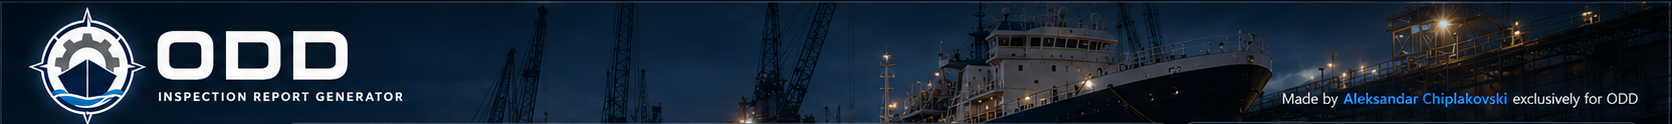
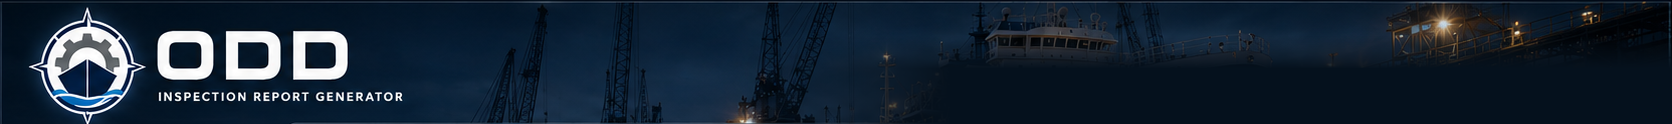
Fix unclickable title bar buttons; shrink the credit text
Title bar buttons: Qt.FramelessWindowHint's native maximize state
reports window geometry slightly larger than the visible screen on
Windows (compensating for the OS's hidden resize border), which
shifts hit-testing for anything near the top edge - exactly where
the custom minimize/maximize/close buttons live, making them
unclickable once maximized. Replaced native showMaximized()/
isMaximized() with a manual pseudo-maximize (resize to
screen().availableGeometry(), track prior geometry to restore),
avoiding the native maximize state entirely. app/main.py now starts
via show() + maximize_to_screen() instead of showMaximized().

Credit text: it was baked as pixels into header_banner.png as part of
an earlier fix for a cropped logo, which meant its size could no
longer be adjusted. Erased the baked-in text with a corner vignette
(blended into the existing photo rather than a visible patch) and
restored it as a real QLabel stacked on top of the banner via
QGridLayout, now sized down to 9px so it's as unobtrusive as
possible while staying legible.

diff --git a/app/ui/main_window.py b/app/ui/main_window.py
@@ -4,7 +4,7 @@ from __future__ import annotations
 from datetime import date, datetime
 from pathlib import Path
 
-from PySide6.QtCore import QDate, QPoint, QSize, Qt
+from PySide6.QtCore import QDate, QPoint, QRect, QSize, Qt
 from PySide6.QtGui import QAction, QColor, QIcon
 from PySide6.QtWidgets import (
     QAbstractItemView,
@@ -12,6 +12,7 @@ from PySide6.QtWidgets import (
     QDialog,
     QFileDialog,
     QFrame,
+    QGridLayout,
     QHBoxLayout,
     QHeaderView,
     QInputDialog,
@@ -81,6 +82,12 @@ class MainWindow(QMainWindow):
         self._current_report_groups: list[list[WorkItem]] = []
         self._table_updating = False
         self._page_count = 0
+        # A custom "maximize" that resizes to the screen's available geometry, rather than
+        # relying on Qt.FramelessWindowHint's native maximize: on Windows the latter reports a
+        # window slightly larger than the visible screen to compensate for the OS resize
+        # border, which makes clicks near the top edge (i.e. our own title bar buttons) land
+        # on the wrong coordinates and get swallowed instead of reaching the buttons.
+        self._restore_geometry: QRect | None = None
 
         self._build_ui()
         self._apply_styles()
@@ -115,11 +122,20 @@ class MainWindow(QMainWindow):
         header.setObjectName("brandHeader")
         header.setMinimumHeight(108)
         header.setMaximumHeight(120)
-        layout = QVBoxLayout(header)
+        layout = QGridLayout(header)
         layout.setContentsMargins(0, 0, 0, 0)
-        # The banner asset already bakes in the full ODD logo, subtitle, shipyard art, and the
-        # "Made by ..." credit, so it renders as one image instead of separately laid-out labels.
-        layout.addWidget(BannerWidget(asset("header_banner.png")))
+        # The banner asset bakes in the full ODD logo, subtitle, and shipyard art (with the
+        # bottom-right corner kept clear); the credit text is a real label stacked on top of
+        # it so its size stays adjustable.
+        banner = BannerWidget(asset("header_banner.png"))
+        layout.addWidget(banner, 0, 0)
+        credit = QLabel(
+            "Made by <span style='color:#47a8ff; font-weight:700;'>Aleksandar Chiplakovski</span> "
+            "exclusively for ODD"
+        )
+        credit.setObjectName("creditLabel")
+        credit.setTextFormat(Qt.RichText)
+        layout.addWidget(credit, 0, 0, Qt.AlignRight | Qt.AlignBottom)
         return header
 
     def _build_sidebar(self) -> QFrame:
@@ -397,6 +413,22 @@ class MainWindow(QMainWindow):
 
     def _apply_styles(self) -> None:
         self.setStyleSheet(build_stylesheet())
+
+    def is_pseudo_maximized(self) -> bool:
+        return self._restore_geometry is not None
+
+    def maximize_to_screen(self) -> None:
+        if self._restore_geometry is not None:
+            return
+        self._restore_geometry = self.geometry()
+        self.setGeometry(self.screen().availableGeometry())
+
+    def toggle_maximize_state(self) -> None:
+        if self._restore_geometry is not None:
+            self.setGeometry(self._restore_geometry)
+            self._restore_geometry = None
+        else:
+            self.maximize_to_screen()
 
     def set_active_nav(self, index: int) -> None:
         for i, btn in enumerate(self.nav_buttons):

diff --git a/app/ui/widgets.py b/app/ui/widgets.py
@@ -85,18 +85,16 @@ class TitleBar(QFrame):
         layout.addWidget(title)
         layout.addStretch(1)
 
-        for label, handler in (("—", self.window_ref.showMinimized), ("□", self.toggle_maximize), ("×", self.window_ref.close)):
+        for label, handler in (
+            ("—", self.window_ref.showMinimized),
+            ("□", self.window_ref.toggle_maximize_state),
+            ("×", self.window_ref.close),
+        ):
             btn = QPushButton(label)
             btn.setObjectName("windowControl")
             btn.setFixedSize(42, 30)
             btn.clicked.connect(handler)
             layout.addWidget(btn)
-
-    def toggle_maximize(self) -> None:
-        if self.window_ref.isMaximized():
-            self.window_ref.showNormal()
-        else:
-            self.window_ref.showMaximized()
 
     def mousePressEvent(self, event) -> None:  # type: ignore[override]
         if event.button() == Qt.LeftButton:
@@ -104,7 +102,7 @@ class TitleBar(QFrame):
             event.accept()
 
     def mouseMoveEvent(self, event) -> None:  # type: ignore[override]
-        if self.drag_pos is not None and event.buttons() & Qt.LeftButton and not self.window_ref.isMaximized():
+        if self.drag_pos is not None and event.buttons() & Qt.LeftButton and not self.window_ref.is_pseudo_maximized():
             self.window_ref.move(event.globalPosition().toPoint() - self.drag_pos)
             event.accept()
 
@@ -114,7 +112,7 @@ class TitleBar(QFrame):
 
     def mouseDoubleClickEvent(self, event) -> None:  # type: ignore[override]
         if event.button() == Qt.LeftButton:
-            self.toggle_maximize()
+            self.window_ref.toggle_maximize_state()
 
 
 class UploadDropFrame(QFrame):

diff --git a/app/ui/theme.py b/app/ui/theme.py
@@ -25,6 +25,7 @@ def build_stylesheet() -> str:
         #windowControl {{ background: transparent; border: none; font-size: 19px; padding: 0; }}
         #windowControl:hover {{ background: rgba(37, 87, 129, 210); }}
         #brandHeader {{ background: rgba(4, 20, 38, 76); border-bottom: 1px solid rgba(67, 128, 177, 130); }}
+        #creditLabel {{ font-size: 9px; color: white; background: transparent; padding: 0 16px 9px 0; }}
         #glassPanel {{ background-color: {PANEL}; border: 1px solid {BORDER}; border-radius: 13px; }}
         #statusCard, #fileCard, #previewHeader {{ background-color: {PANEL_2}; border: 1px solid {BORDER}; border-radius: 10px; }}
         #sectionTitle {{ font-size: 20px; font-weight: 700; }}

diff --git a/app/main.py b/app/main.py
@@ -14,7 +14,8 @@ def main() -> int:
     app.setApplicationName(APP_TITLE)
     app.setOrganizationName("ODD")
     window = MainWindow()
-    window.showMaximized()
+    window.show()
+    window.maximize_to_screen()
     return app.exec()
 
 
